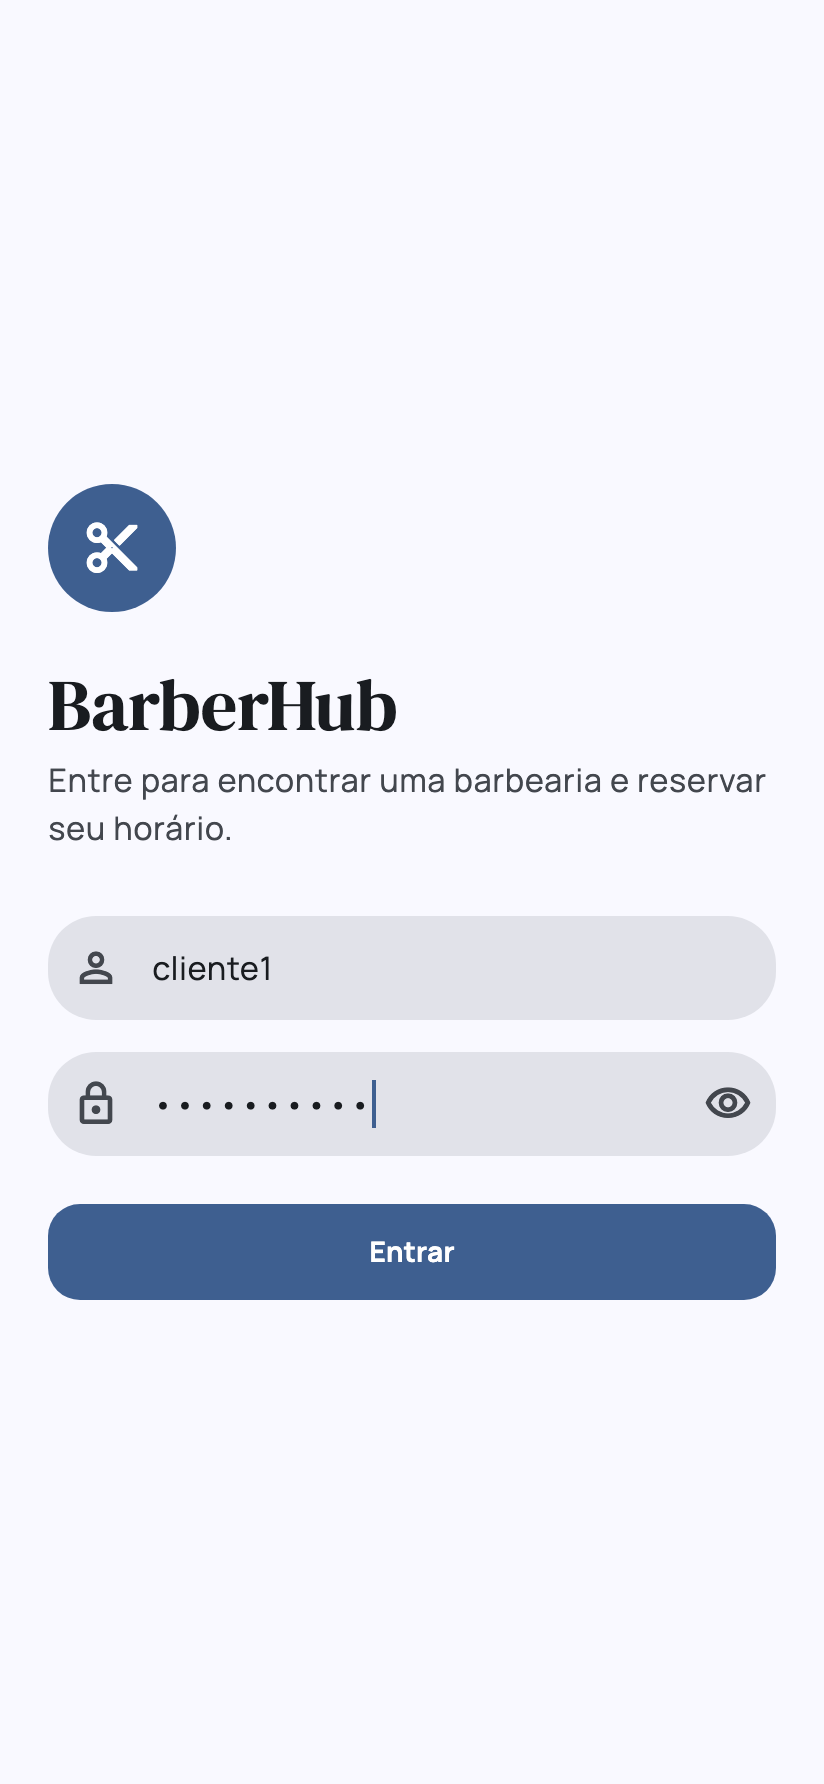
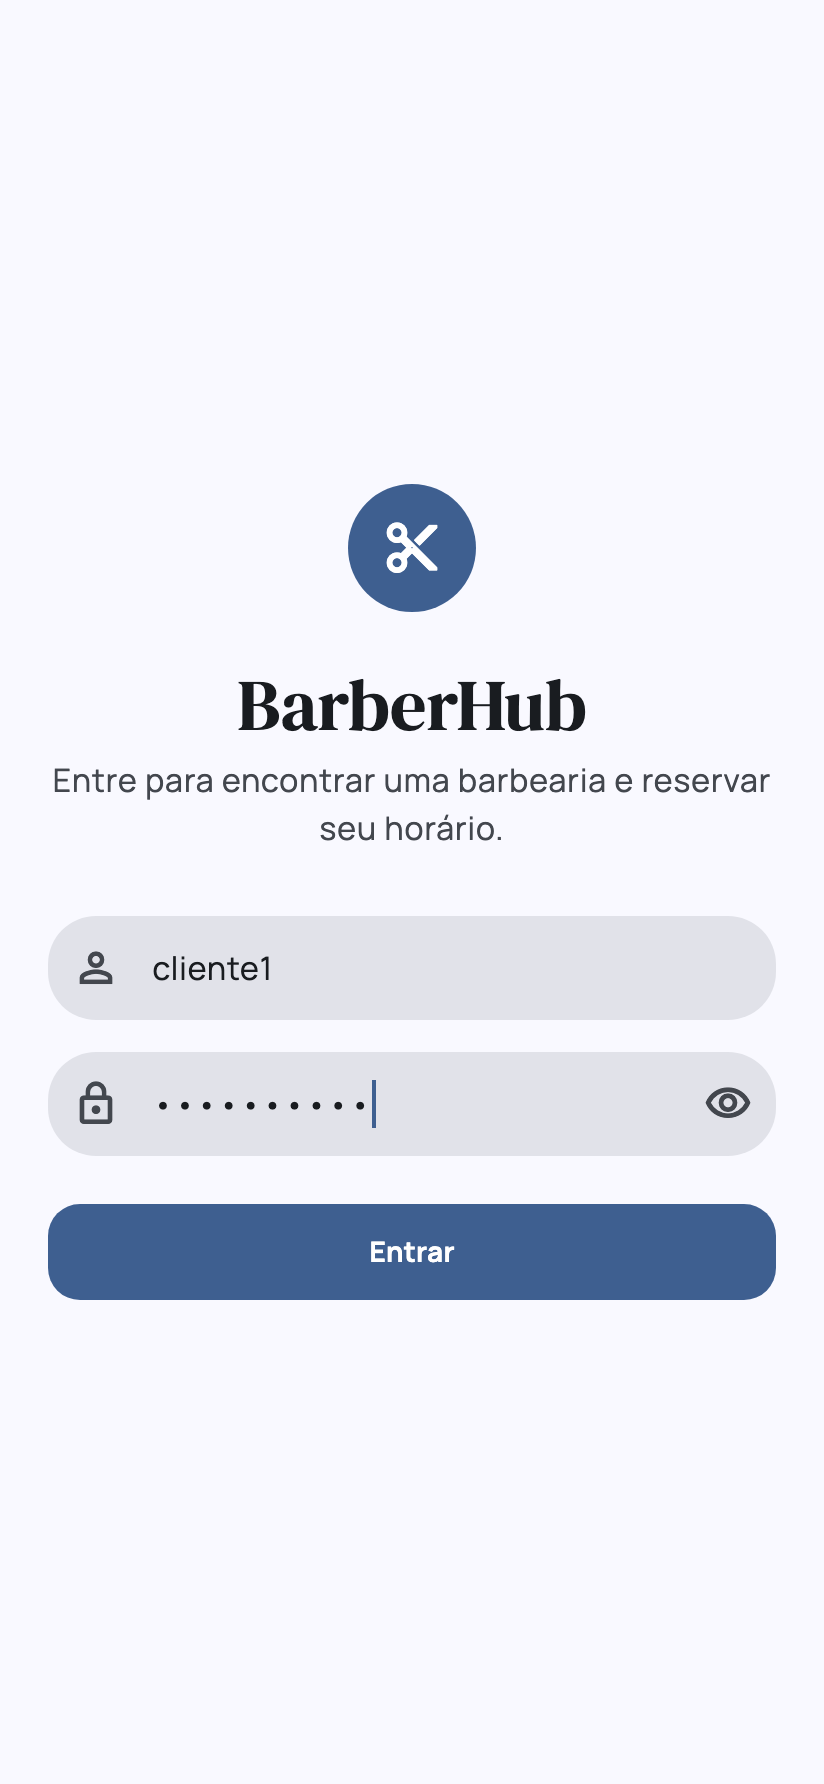
feat(app): login com cabeçalho centralizado e aviso de erro mais leve (ADR-0016)
Ícone, título e descrição do login ficam centralizados. O aviso de erro deixa de ser
um bloco vermelho cheio: fundo tingido, borda e ícone na cor de erro, texto na cor normal.
A imagem 01-login do README foi gerada de novo.

Changed region(s): [[0.0607, 0.2466, 0.9405, 0.4933]]

diff --git a/apps/barberhub-app/lib/ui/screens/login_screen.dart b/apps/barberhub-app/lib/ui/screens/login_screen.dart
@@ -55,7 +55,7 @@ class _LoginScreenState extends State<LoginScreen> {
                         crossAxisAlignment: CrossAxisAlignment.stretch,
                         children: [
                           Align(
-                            alignment: Alignment.centerLeft,
+                            alignment: Alignment.center,
                             child: CircleAvatar(
                               radius: 32,
                               backgroundColor: scheme.primary,
@@ -69,11 +69,13 @@ class _LoginScreenState extends State<LoginScreen> {
                           const SizedBox(height: AppSpacing.lg),
                           Text(
                             'BarberHub',
+                            textAlign: TextAlign.center,
                             style: theme.textTheme.displaySmall,
                           ),
                           const SizedBox(height: AppSpacing.xs),
                           Text(
                             'Entre para encontrar uma barbearia e reservar seu horário.',
+                            textAlign: TextAlign.center,
                             style: theme.textTheme.bodyLarge?.copyWith(
                               color: scheme.onSurfaceVariant,
                             ),
@@ -165,19 +167,21 @@ class _AvisoDeErro extends StatelessWidget {
       liveRegion: true,
       child: Container(
         padding: const EdgeInsets.all(AppSpacing.md),
+        // Fundo só tingido de erro, com borda: avisa sem virar um bloco vermelho na tela.
         decoration: BoxDecoration(
-          color: scheme.errorContainer,
+          color: scheme.error.withValues(alpha: 0.10),
+          border: Border.all(color: scheme.error.withValues(alpha: 0.45)),
           borderRadius: BorderRadius.circular(AppRadius.md),
         ),
         child: Row(
           children: [
-            Icon(Icons.error_outline, color: scheme.onErrorContainer),
+            Icon(Icons.error_outline, size: 20, color: scheme.error),
             const SizedBox(width: AppSpacing.sm),
             Expanded(
               child: Text(
                 mensagem,
                 style: theme.textTheme.bodyMedium?.copyWith(
-                  color: scheme.onErrorContainer,
+                  color: scheme.onSurface,
                 ),
               ),
             ),
